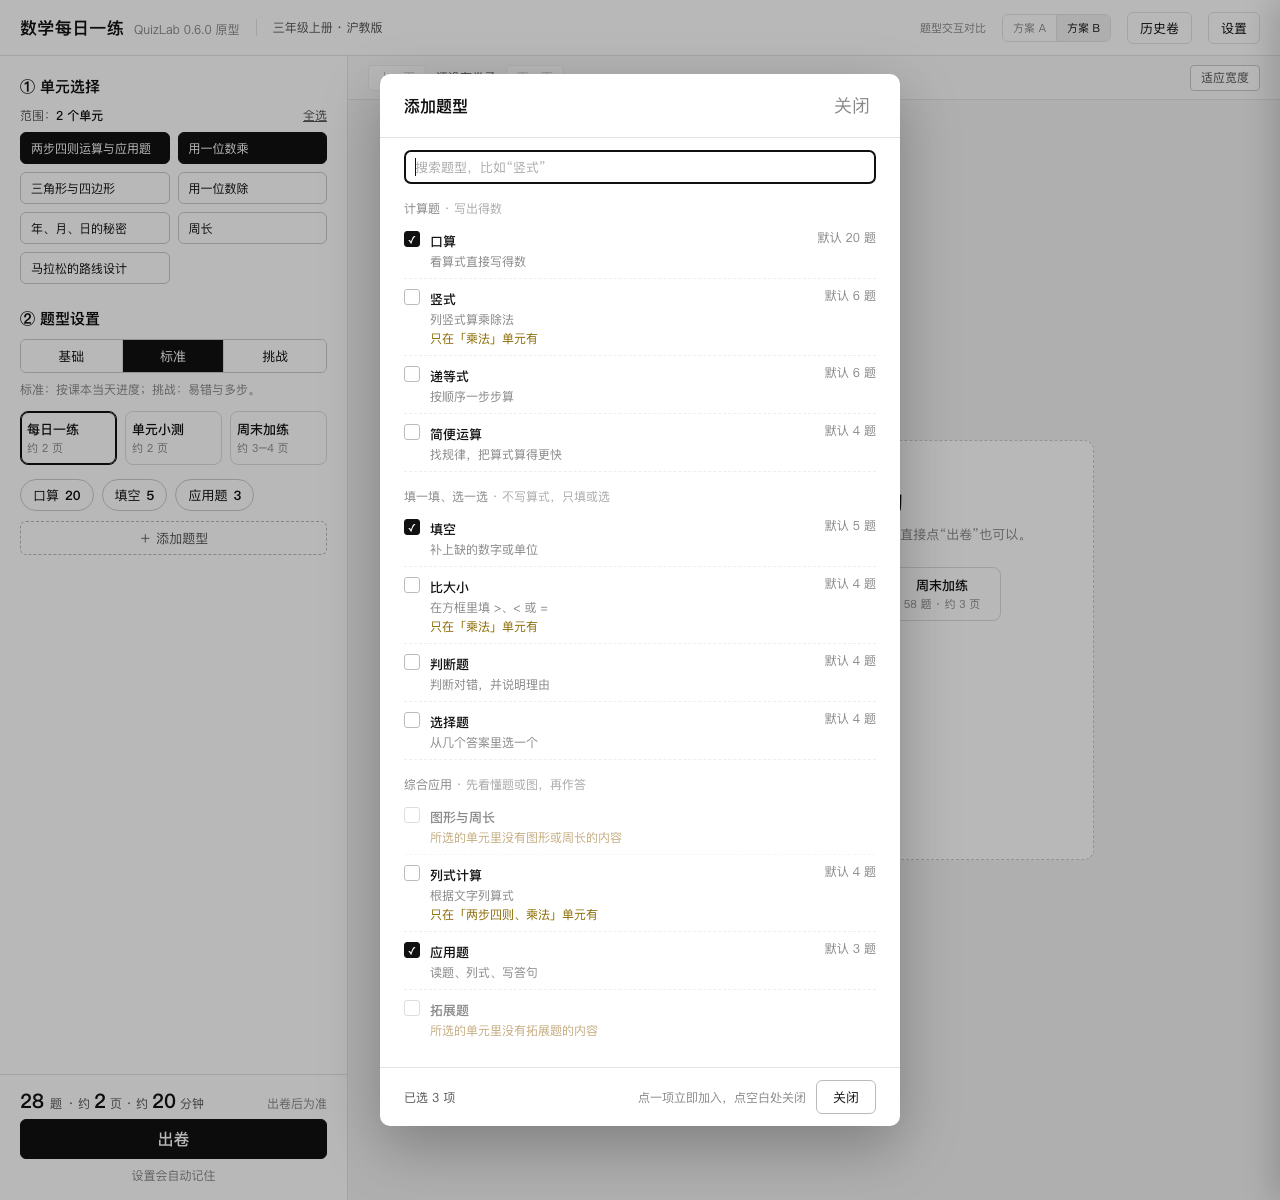
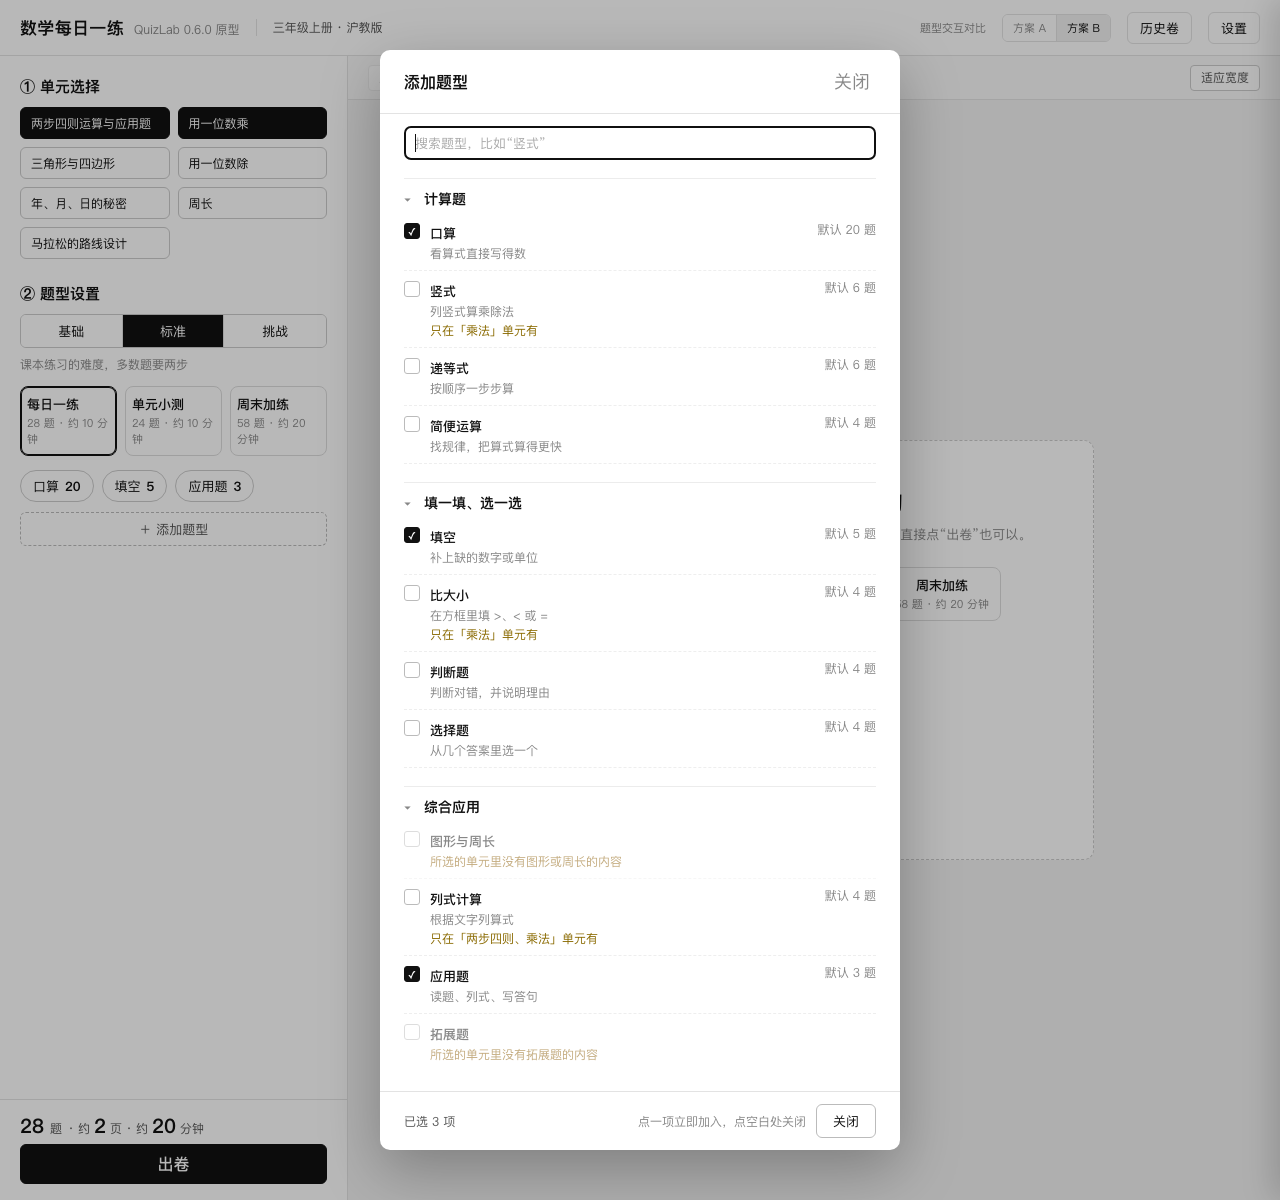
docs: 0.6.0 原型按 5 条反馈调整
去掉范围汇总行与两处底部文案；难度说明随档位切换；套餐卡改为题数与分钟；分类标题加粗可折叠、默认展开。

diff --git a/docs/ui-prototype-0.6.0/index.html b/docs/ui-prototype-0.6.0/index.html
@@ -56,8 +56,6 @@
       .block h2 .more { margin-left: auto; border: none; background: none; color: var(--ink-2); font-size: 12px; padding: 0; }
       .block h2 .more:hover { color: var(--ink); text-decoration: underline; }
 
-      .range-line { display: flex; align-items: center; justify-content: space-between; font-size: 12px; color: var(--ink-2); margin-bottom: 8px; }
-      .range-line b { color: var(--ink); font-weight: 500; }
       .chips { display: grid; grid-template-columns: 1fr 1fr; gap: 8px; }
       .chip {
         height: 32px; padding: 0 10px; font-size: 12px; border: 1px solid #ccc; border-radius: 6px;
@@ -78,6 +76,12 @@
       }
       .preset b { display: block; font-size: 13px; font-weight: 500; }
       .preset small { display: block; margin-top: 2px; font-size: 11px; color: var(--ink-3); }
+      .group-head {
+        display: flex; align-items: center; gap: 8px; width: 100%; margin: 18px 0 2px;
+        padding: 10px 0 2px; border: 0; border-top: 1px solid #ececec; background: none; text-align: left;
+      }
+      .group-head .arrow { font-size: 11px; color: var(--ink-3); width: 12px; }
+      .group-head .name { font-size: 14px; font-weight: 600; color: var(--ink); }
       .preset[aria-pressed='true'] { border-color: var(--ink); box-shadow: inset 0 0 0 1px var(--ink); }
 
       .type { display: flex; align-items: center; gap: 10px; padding: 7px 0; border-bottom: 1px dashed #eee; }
@@ -133,8 +137,7 @@
       .add-body { padding: 4px 24px 20px; overflow-y: auto; }
       .add-search { width: 100%; height: 34px; margin-top: 8px; padding: 0 10px; border: 1px solid #ccc; border-radius: 6px; font-size: 13px; }
       .add-search::placeholder { color: #aaa; }
-      .group-title { margin: 16px 0 4px; font-size: 12px; color: var(--ink-3); }
-      .group-hint { color: #aaa; }
+
       .add-item { display: flex; align-items: flex-start; gap: 10px; padding: 8px 0; border-bottom: 1px dashed #eee; }
       .add-item:last-child { border-bottom: 0; }
       .add-item.disabled { opacity: .5; }
@@ -172,7 +175,7 @@
       .primary.loading .bar { width: 64px; height: 3px; background: #555; margin: 0; border-radius: 2px; overflow: hidden; }
       .primary.loading .bar i { display: block; width: 40%; height: 100%; background: #fff; animation: slide 1s infinite ease-in-out; }
       @keyframes slide { from { transform: translateX(-100%); } to { transform: translateX(260%); } }
-      .save-hint { margin: 8px 0 0; font-size: 12px; color: var(--ink-3); text-align: center; }
+
 
       /* ---------- 右栏 ---------- */
       .main { display: flex; flex-direction: column; min-width: 0; min-height: 0; }
@@ -318,7 +321,6 @@
         <div class="side-scroll">
           <section class="block">
             <h2>① 单元选择</h2>
-            <div class="range-line"><span>范围：<b id="rangeSummary">全部 7 个单元</b></span><button class="linkbtn" id="toggleAll">全不选</button></div>
             <div class="chips" id="units"></div>
           </section>
 
@@ -329,7 +331,7 @@
               <button data-level="L2">标准</button>
               <button data-level="L3">挑战</button>
             </div>
-            <p class="help">标准：按课本当天进度；挑战：易错与多步。</p>
+            <p class="help" id="levelHelp">课本练习的难度，多数题要两步</p>
 
             <div class="presets" id="presets"></div>
 
@@ -342,10 +344,9 @@
           <div class="totals">
             <b id="total">28</b><span>题</span>
             <span>· 约 <b id="pages">2</b> 页 · 约 <b id="minutes">20</b> 分钟</span>
-            <span id="scopeNote">出卷后为准</span>
+            <span id="scopeNote"></span>
           </div>
           <button class="primary" id="buildBtn">出卷</button>
-          <p class="save-hint" id="saveHint">设置会自动记住</p>
         </div>
       </aside>
 
@@ -477,11 +478,7 @@
         { id: 'word', group: '综合应用', label: '应用题', desc: '读题、列式、写答句', def: 3, available: 60, cost: 0.08 },
         { id: 'advanced', group: '综合应用', label: '拓展题', desc: '多一步的思考题，每题留 3–4 行', def: 3, available: 20, cost: 0.2, needs: ['年、月、日的秘密', '马拉松的路线设计'], topic: '拓展题的内容' },
       ]
-      const GROUPS = [
-        { name: '计算题', hint: '写出得数' },
-        { name: '填一填、选一选', hint: '不写算式，只填或选' },
-        { name: '综合应用', hint: '先看懂题或图，再作答' },
-      ]
+      const GROUPS = ['计算题', '填一填、选一选', '综合应用']
       const SHORT_UNIT = {
         '两步四则运算与应用题': '两步四则',
         '用一位数乘': '乘法',
@@ -498,10 +495,15 @@
       TYPES.forEach((t) => (t.min = MIN_PER_Q[t.id] || 1))
 
       const PRESETS = [
-        { id: 'daily', name: '每日一练', hint: '约 2 页', values: { kousuan: 20, tiankong: 5, word: 3 } },
-        { id: 'quiz', name: '单元小测', hint: '约 2 页', values: { kousuan: 10, chushi: 6, tiankong: 4, word: 4 } },
-        { id: 'weekend', name: '周末加练', hint: '约 3–4 页', values: { kousuan: 30, chushi: 8, tuoshi: 6, tiankong: 8, word: 6 } },
+        { id: 'daily', name: '每日一练', values: { kousuan: 20, tiankong: 5, word: 3 } },
+        { id: 'quiz', name: '单元小测', values: { kousuan: 10, chushi: 6, tiankong: 4, word: 4 } },
+        { id: 'weekend', name: '周末加练', values: { kousuan: 30, chushi: 8, tuoshi: 6, tiankong: 8, word: 6 } },
       ]
+      const LEVEL_HELP = {
+        L1: '对准课本例题，一步算完',
+        L2: '课本练习的难度，多数题要两步',
+        L3: '需要多绕一步，用来查漏',
+      }
 
       const params = new URLSearchParams(location.search)
       const initialView = params.get('view') || 'main'
@@ -516,6 +518,7 @@
         panelOpen: false,
         draft: new Set(),
         search: '',
+        collapsed: new Set(),
         adjustId: null,
         built: false,
         loading: false,
@@ -574,15 +577,6 @@
           }
           unitsEl.appendChild(b)
         })
-        const all = state.units.size === UNITS.length
-        document.getElementById('rangeSummary').textContent = all
-          ? `全部 ${UNITS.length} 个单元`
-          : state.units.size === 0 ? '没有选单元' : `${state.units.size} 个单元`
-        document.getElementById('toggleAll').textContent = all ? '全不选' : '全选'
-        document.getElementById('toggleAll').onclick = () => {
-          state.units = all ? new Set() : new Set(UNITS)
-          render()
-        }
       }
 
       function stepper(id) {
@@ -736,7 +730,9 @@
           const b = document.createElement('button')
           b.className = 'preset'
           b.setAttribute('aria-pressed', state.preset === p.id ? 'true' : 'false')
-          b.innerHTML = `<b>${p.name}</b><small>${p.hint}</small>`
+          const count = Object.values(p.values).reduce((sum, n) => sum + n, 0)
+          const mins = Math.max(5, Math.ceil((count / 10 * 3) / 5) * 5)
+          b.innerHTML = `<b>${p.name}</b><small>${count} 题 · 约 ${mins} 分钟</small>`
           b.onclick = () => {
             applyPreset(p.id)
             state.built = false
@@ -748,6 +744,7 @@
       }
 
       function renderLevels() {
+        document.getElementById('levelHelp').textContent = LEVEL_HELP[state.level]
         document.querySelectorAll('#levels button, #settingsLevels button').forEach((b) => {
           b.setAttribute('aria-pressed', b.dataset.level === state.level ? 'true' : 'false')
           b.onclick = () => { state.level = b.dataset.level; state.built = false; render() }
@@ -758,6 +755,7 @@
         state.panelOpen = true
         state.draft = new Set(state.added)
         state.search = ''
+        state.collapsed = new Set()
         addPanel.classList.add('open')
         scrim.classList.add('open')
         renderAddPanel()
@@ -829,16 +827,20 @@
         }
         const q = state.search.trim()
         GROUPS.forEach((group) => {
-          const items = TYPES.filter((t) => t.group === group.name && (!q || t.label.includes(q) || t.desc.includes(q)))
+          const items = TYPES.filter((t) => t.group === group && (!q || t.label.includes(q) || t.desc.includes(q)))
           if (!items.length) return
-          const title = document.createElement('div')
-          title.className = 'group-title'
-          title.textContent = group.name
-          const hint = document.createElement('span')
-          hint.className = 'group-hint'
-          hint.textContent = ` · ${group.hint}`
-          title.appendChild(hint)
+          const folded = state.collapsed.has(group)
+          const title = document.createElement('button')
+          title.className = 'group-head'
+          title.setAttribute('aria-expanded', folded ? 'false' : 'true')
+          title.innerHTML = `<span class="arrow">${folded ? '▸' : '▾'}</span><span class="name">${group}</span>`
+          title.onclick = () => {
+            if (folded) state.collapsed.delete(group)
+            else state.collapsed.add(group)
+            renderAddPanel()
+          }
           body.appendChild(title)
+          if (folded) return
           items.forEach((t) => {
             const av = availability(t)
             const on = currentSel().has(t.id)
@@ -918,8 +920,8 @@
         document.getElementById('pages').textContent = state.built && state.result ? state.result.pages : roughPages()
         document.getElementById('minutes').textContent = state.built && state.result ? state.result.minutes : minutes()
         document.getElementById('scopeNote').textContent = !state.built
-          ? '出卷后为准'
-          : state.result && state.result.count !== total() ? `本卷实际 ${state.result.count} 题` : '实际页数'
+          ? ''
+          : state.result && state.result.count !== total() ? `本卷实际 ${state.result.count} 题` : ''
         buildBtn.disabled = state.units.size === 0 || total() === 0 || state.loading
         buildBtn.textContent = state.loading ? '正在排版…' : state.built ? '重新出卷' : '出卷'
         buildBtn.className = 'primary' + (state.loading ? ' loading' : '')
@@ -974,9 +976,9 @@
           <h3>先出一份今天的练习</h3>
           <p>左边已经准备好：全部单元 · 标准难度 · 每日一练。直接点“出卷”也可以。</p>
           <div class="empty-actions">
-            <button class="preset" data-preset="daily"><b>每日一练</b><small>28 题 · 约 2 页</small></button>
-            <button class="preset" data-preset="quiz"><b>单元小测</b><small>24 题 · 约 2 页</small></button>
-            <button class="preset" data-preset="weekend"><b>周末加练</b><small>58 题 · 约 3 页</small></button>
+            <button class="preset" data-preset="daily"><b>每日一练</b><small>28 题 · 约 10 分钟</small></button>
+            <button class="preset" data-preset="quiz"><b>单元小测</b><small>24 题 · 约 10 分钟</small></button>
+            <button class="preset" data-preset="weekend"><b>周末加练</b><small>58 题 · 约 20 分钟</small></button>
           </div>
         </div>`
         stage.querySelectorAll('[data-preset]').forEach((b) => {

diff --git a/docs/ui-design-0.6.0.md b/docs/ui-design-0.6.0.md
@@ -82,8 +82,8 @@
 │ 左栏 340px（常驻）        │ 右栏（常驻）                     │
 │                           │                                  │
 │ ① 单元选择                │ 预览工具条：第 1/2 页 · 适应宽度 │
-│   范围：全部 7 个单元 ›   │ ┌──────────────────────────────┐ │
-│   [单元 chip × 7]         │ │                              │ │
+│   [单元 chip × 7]         │ ┌──────────────────────────────┐ │
+│                           │ │                              │ │
 │                           │ │        A4 纸张预览           │ │
 │ ② 题型设置                │ │                              │ │
 │   难度 [基础|标准|挑战]   │ │                              │ │
@@ -123,8 +123,8 @@
 | 字段 | 控件 | 首次启动默认值 | 范围 | 说明/文案 |
 | --- | --- | --- | --- | --- |
 | 年级与教材 | 只读文字 | 三年级上册 · 沪教版 | 固定 | 不出现下拉；无第二选项 |
-| 单元 | 多选 chip（两列） | **全部 7 个单元** | 至少 1 个 | 默认全选，保证一键出卷；顶部一行"范围：全部 7 个单元 ›" |
-| 难度 | 三段控件 | **标准** | 基础/标准/挑战 | 下方一行：基础=刚学完，标准=按课本进度，挑战=易错与多步 |
+| 单元 | 多选 chip（两列） | **全部 7 个单元** | 至少 1 个 | 默认全选，保证一键出卷；不显示"范围：全部 N 个单元"汇总行 |
+| 难度 | 三段控件 | **标准** | 基础/标准/挑战 | 下方一句随档位切换：基础"对准课本例题，一步算完"；标准"课本练习的难度，多数题要两步"；挑战"需要多绕一步，用来查漏" |
 | 题量套餐 | 3 个快捷卡 | **每日一练** | 每日一练/单元小测/周末加练 | 点选即写入题量；之后手动改数字，套餐卡取消高亮 |
 | 口算 | stepper `[−] 20 [+]` | 20 | 0–200 | 0 时行内显示"不出" |
 | 填空 | stepper | 5 | 0–200 | 同上；首次只在常用区出现 |
@@ -137,13 +137,13 @@
 
 **套餐预设**
 
-| 套餐 | 题量 | 约页数 | 适用 |
+| 套餐 | 题量 | 卡片文案 | 适用 |
 | --- | --- | --- | --- |
-| 每日一练 | 口算 20 / 填空 5 / 应用题 3 = 28 题 | 约 2 页 | 当天作业，20 分钟 |
-| 单元小测 | 口算 10 / 竖式 6 / 填空 4 / 应用题 4 = 24 题 | 约 2 页 | 一个单元学完 |
-| 周末加练 | 口算 30 / 竖式 8 / 递等式 6 / 填空 8 / 应用题 6 = 58 题 | 约 3–4 页 | 周末巩固 |
+| 每日一练 | 口算 20 / 填空 5 / 应用题 3 = 28 题 | 28 题 · 约 10 分钟 | 当天作业 |
+| 单元小测 | 口算 10 / 竖式 6 / 填空 4 / 应用题 4 = 24 题 | 24 题 · 约 10 分钟 | 一个单元学完 |
+| 周末加练 | 口算 30 / 竖式 8 / 递等式 6 / 填空 8 / 应用题 6 = 58 题 | 58 题 · 约 20 分钟 | 周末巩固 |
 
-> 页数为原型估算，实施时用现有 `roughPages` 粗估 + 排版后实际页数回填。
+> 卡片不再显示页数；用时按"10 题≈3 分钟"折算，向上取整到 5 分钟。
 
 ### 5.2 结果态（同页，预览上方）
 
@@ -205,7 +205,7 @@
 
 - 主界面只列已选题型，每行紧凑：`题型名　[− 20 +]　×`。移除即从本卷去掉，不留空行。
 - 唯一入口是列表下方的 `＋ 添加题型`。
-- 点开后是弹层（宽 520，居中）：按 **计算题 / 填一填、选一选 / 综合应用** 三组排列，组名后跟一句极短说明（"写出得数" / "不写算式，只填或选" / "先看懂题或图，再作答"）。
+- 点开后是弹层（宽 520，居中）：按 **计算题 / 填一填、选一选 / 综合应用** 三组排列。组名加粗、比题型名大一级，带折叠箭头与分隔留白，不跟题型行同级；每组可点击折叠，默认全部展开，组名后不再跟说明句。
 - 每项一行：勾选框、题型名、一句人话说明（"列竖式算乘除法"）、右侧"默认 6 题"。
 - **能不能出**：当前所选单元出不出的按灰色显示，行内写具体原因，例如"所选的单元里没有图形或周长的内容"；只有部分单元支持时写"只在「用一位数乘、用一位数除」单元有"。
 - 底部：`已选 N 项`、`取消`、`完成`（主按钮）。
@@ -244,9 +244,9 @@
 
 | 位置 | 现在 | 改成 |
 | --- | --- | --- |
-| 难度 | L1/L2/L3 + 三行说明 | 基础 / 标准 / 挑战；一行"标准：按课本当天进度" |
+| 难度 | L1/L2/L3 + 三行说明 | 基础 / 标准 / 挑战；下方一句随档位切换（基础"对准课本例题，一步算完"／标准"课本练习的难度，多数题要两步"／挑战"需要多绕一步，用来查漏"） |
 | 年级 | 三年级上册（成品范围）＋"三下及后续年级已暂停" | 三年级上册 · 沪教版 |
-| 单元 | 只列三上能出题的 7 个单元 | 范围：全部 7 个单元 › |
+| 单元 | 只列三上能出题的 7 个单元 | 7 个单元 chip（默认全选），不显示范围汇总行 |
 | 题型来源 | 按题型自动出题 / 按规则出题 / 备用题库 | （不显示） |
 | 题量说明 | 勾选后填写题量；0 或留空表示不出该题型 | 点 ＋ 添加题型；数字调到 0 就是不出这类 |
 | 总题数 | 总题数 34 · 按题型题量自动汇总 | 共 34 题 |
